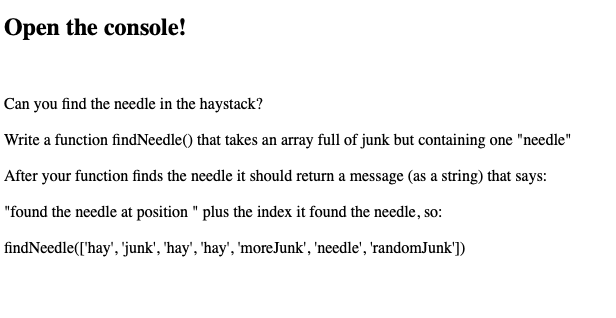
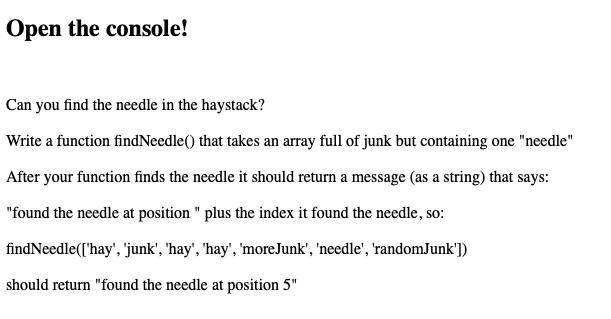
image, html

diff --git a/kataNeedle.html b/kataNeedle.html
@@ -20,7 +20,9 @@
         <br>
         "found the needle at position " plus the index it found the needle, so:<br>
         <br>
-        findNeedle(['hay', 'junk', 'hay', 'hay', 'moreJunk', 'needle', 'randomJunk'])
+        findNeedle(['hay', 'junk', 'hay', 'hay', 'moreJunk', 'needle', 'randomJunk'])<br>
+        <br>
+        should return "found the needle at position 5"
 </p>
     
 </body>
